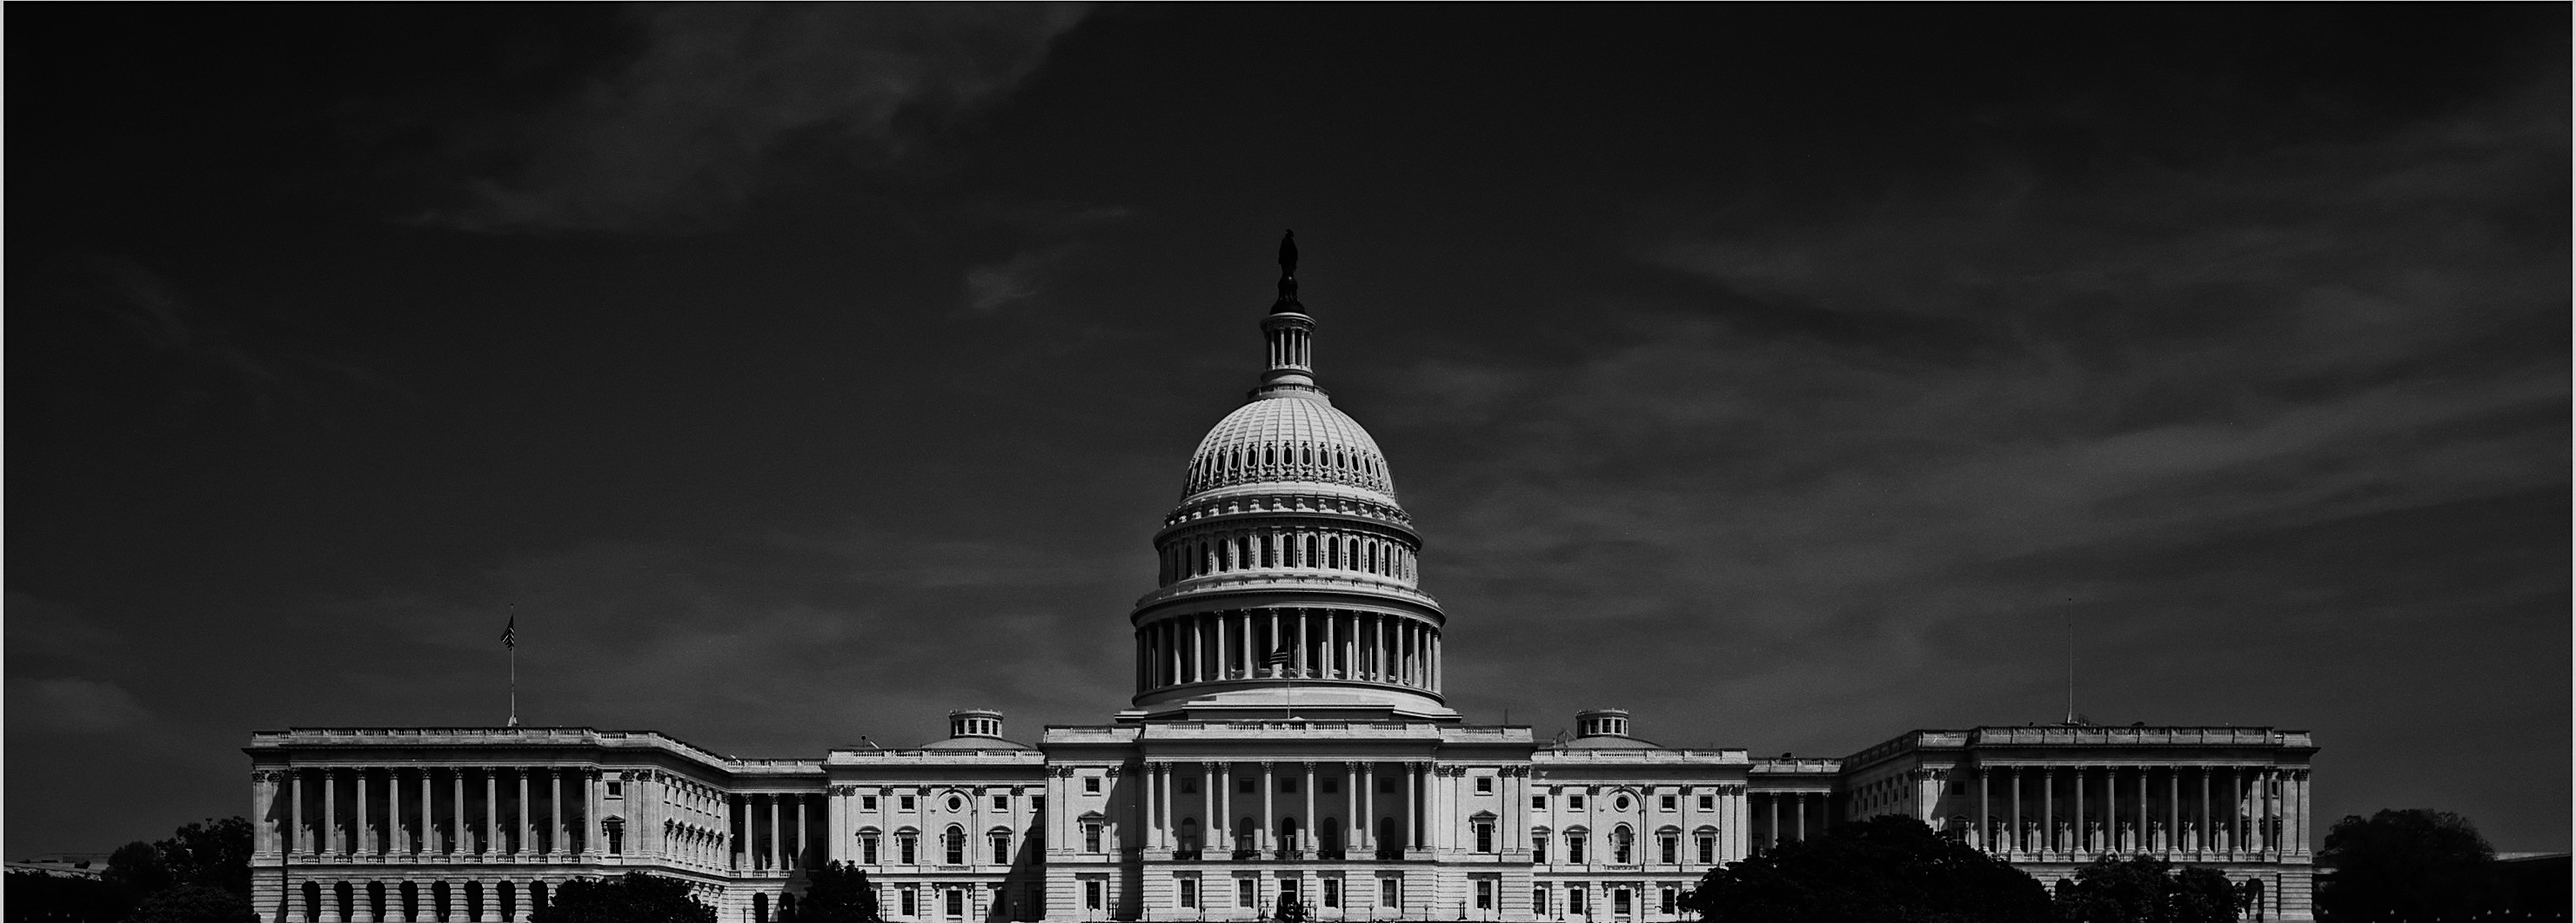
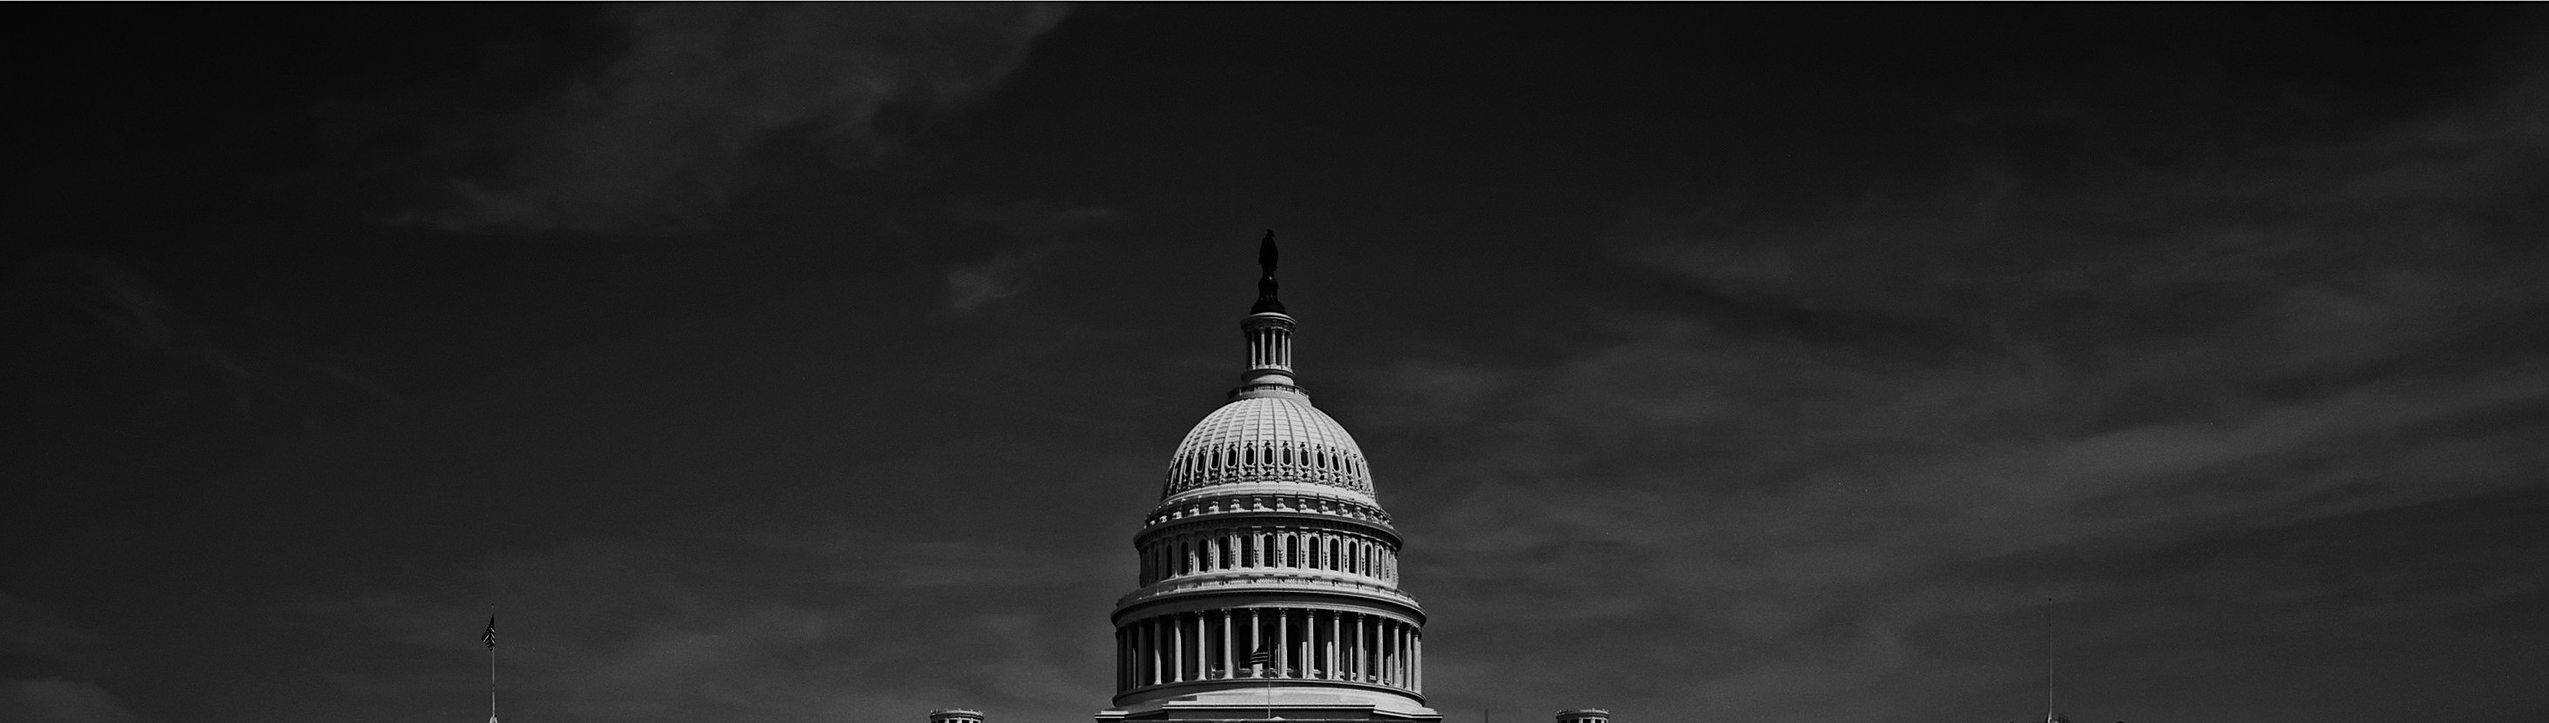
link styling and home image resizing

diff --git a/flipflop/blueprints/page/templates/page/about.html b/flipflop/blueprints/page/templates/page/about.html
@@ -25,21 +25,44 @@
                   <tr>
                     <td class="col-xs-5">
                         <img src="{{ url_for('static', filename='images/team_0002_steve.png') }}" height="200px">
-                        <p>Steve Pelkey<br><a href="mailto:spelkey@ischool.berkeley.edu"><i class="fa fa-envelope-o fa-2x" aria-hidden="true"></i></a>&nbsp;&nbsp;&nbsp;<a href="#"><i class="fa fa-linkedin-square fa-2x" aria-hidden="true" height="20px"></i></a></p>
+                        <p>Steve Pelkey<br>
+                          <a class="dark" href="mailto:spelkey@ischool.berkeley.edu">
+                          <i class="fa fa-envelope-o fa-2x" aria-hidden="true"></i></a>
+                          &nbsp;&nbsp;&nbsp;
+                          <a class="dark" href="#">
+                          <i class="fa fa-linkedin-square fa-2x" aria-hidden="true" height="20px"></i></a>
+                        </p>
                     </td>
                     <td class="col-xs-5">
                         <img src="{{ url_for('static', filename='images/team_0003_matthew.png') }}" height="200px">
-                        <p>Matthew Burke<br><a href="mailto:matthew.burke@ischool.berkeley.edu"><i class="fa fa-envelope-o fa-2x" aria-hidden="true"></i></a>&nbsp;&nbsp;&nbsp;<a href="https://www.linkedin.com/in/matthew-burke-2017/"><i class="fa fa-linkedin-square fa-2x" aria-hidden="true" height="20px"></i></a></p>
+                        <p>Matthew Burke<br>
+                          <a class="dark" href="mailto:matthew.burke@ischool.berkeley.edu">
+                          <i class="fa fa-envelope-o fa-2x" aria-hidden="true"></i></a>
+                          &nbsp;&nbsp;&nbsp;
+                          <a class="dark" href="https://www.linkedin.com/in/matthew-burke-2017/">
+                          <i class="fa fa-linkedin-square fa-2x" aria-hidden="true" height="20px"></i></a>
+                        </p>
                     </td>
                   </tr>
                   <tr>
                     <td class="col-xs-5">
                         <img src="{{ url_for('static', filename='images/team_0001_nick.png') }}" height="200px">
-                        <p>Nick Stamatakis<br><a href="mailto:nickstamatakis@ischool.berkeley.edu"><i class="fa fa-envelope-o fa-2x" aria-hidden="true"></i></a>&nbsp;&nbsp;&nbsp;<a href="https://www.linkedin.com/in/nick-stamatakis-7977793b/"><i class="fa fa-linkedin-square fa-2x" aria-hidden="true" height="20px"></i></a></p>
+                        <p>Nick Stamatakis<br>
+                          <a class="dark" href="mailto:nickstamatakis@ischool.berkeley.edu">
+                          <i class="fa fa-envelope-o fa-2x" aria-hidden="true"></i></a>
+                          &nbsp;&nbsp;&nbsp;
+                          <a class="dark" href="https://www.linkedin.com/in/nick-stamatakis-7977793b/"><i class="fa fa-linkedin-square fa-2x" aria-hidden="true" height="20px"></i></a>
+                        </p>
                     </td>
                     <td class="col-xs-5">
                         <img src="{{ url_for('static', filename='images/team_0000_winston.png') }}" height="200px">
-                        <p>Winston Lin<br><a href="mailto:winlin@ischool.berkeley.edu"><i class="fa fa-envelope-o fa-2x" aria-hidden="true"></i></a>&nbsp;&nbsp;&nbsp;<a href="https://www.linkedin.com/in/winstonlin1/"><i class="fa fa-linkedin-square fa-2x" aria-hidden="true" height="20px"></i></a></p>
+                        <p>Winston Lin<br>
+                          <a class="dark" href="mailto:winlin@ischool.berkeley.edu">
+                          <i class="fa fa-envelope-o fa-2x" aria-hidden="true"></i></a>
+                          &nbsp;&nbsp;&nbsp;
+                          <a class="dark" href="https://www.linkedin.com/in/winstonlin1/">
+                          <i class="fa fa-linkedin-square fa-2x" aria-hidden="true" height="20px"></i></a>
+                        </p>
                     </td>
                   </tr>
                 </tbody>

diff --git a/flipflop/blueprints/find/templates/find/find.html b/flipflop/blueprints/find/templates/find/find.html
@@ -27,11 +27,9 @@
                <tr>
                    <th>NAME</th>
                    <th>CONTACT INFO</th>
-                   <th>STATE</th>
                    <th>PARTY</th>
                    <th>POSITION</th>
                    <th>BIRTH DATE</th>
-                   <th>GENDER</th>
                    <th>DISTRICT</th>
               </tr>
             </thead>
@@ -40,17 +38,14 @@
                <tr>
                    <td><a href="{{ url_for('find.find_page', member_id=member.member_id) }}">{{ member.first_name}} {{ member.last_name }}</a></td>
                    <td>
-                     <a href="https://twitter.com/@{{ member.twitter }}">Twitter</a> | 
-                     <a href="https://facebook.com/{{ member.facebook }}">Facebook</a> |
-                     <a href="{{ member.contact_form }}">Contact</a>
-                     <br>
-                     Phone: {{ member.phone }}
+                     <a class="dark" href="https://twitter.com/@{{ member.twitter }}"><i class="fa fa-twitter-square fa-2x" aria-hidden="true"></i></a> 
+                     <a class="dark" href="https://facebook.com/{{ member.facebook }}"><i class="fa fa-facebook-official fa-2x" aria-hidden="true"></i></a>
+                     <a class="dark" href="{{ member.contact_form }}"><i class="fa fa-envelope-square fa-2x" aria-hidden="true"></i></a>
+                     <a class="dark" href="tel:{{ member.phone }}"><i class="fa fa-phone-square fa-2x" aria-hidden="true"></i></a>
                    </td>
-                   <td>{{ member.state_abbrev }}</td>
                    <td>{{ member.party }}</td>
                    <td>{{ member.mem_type }}</td>
                    <td>{{ member.birth_date.strftime('%m/%d/%Y') }}</td>
-                   <td>{{ member.gender }}</td>
                    <td>{{ member.district }}</td>
                </tr>
                {%- endfor %}

diff --git a/flipflop/static/styles/main.css b/flipflop/static/styles/main.css
@@ -160,22 +160,6 @@ p.copyright {
   margin: 15px 0 0;
 }
 
-.button-image:before {
-    content: "";
-    width: 50px;
-    height: 50px;
-    display: inline-block;
-    margin-right: 5px;
-    vertical-align: text-top;
-    background-color: transparent;
-    background-position : center center;
-    background-repeat:no-repeat;
-}
-
-.explore:before{
-  background-image: url("images/explore-icon.png");
-}
-
 .btn-custom-light {
   color: #4f88e2;
   background-color: #f2f2f2;
@@ -254,4 +238,16 @@ p.copyright {
 
 .spacer-50 {
     margin-top: 50px;
+}
+
+a.dark {
+  color: #2856a0;
+  text-decoration: none;
+  background-color: transparent;
+  -webkit-text-decoration-skip: objects;
+}
+
+a.dark:hover {
+  color: #6b96db;
+  text-decoration: underline;
 }
